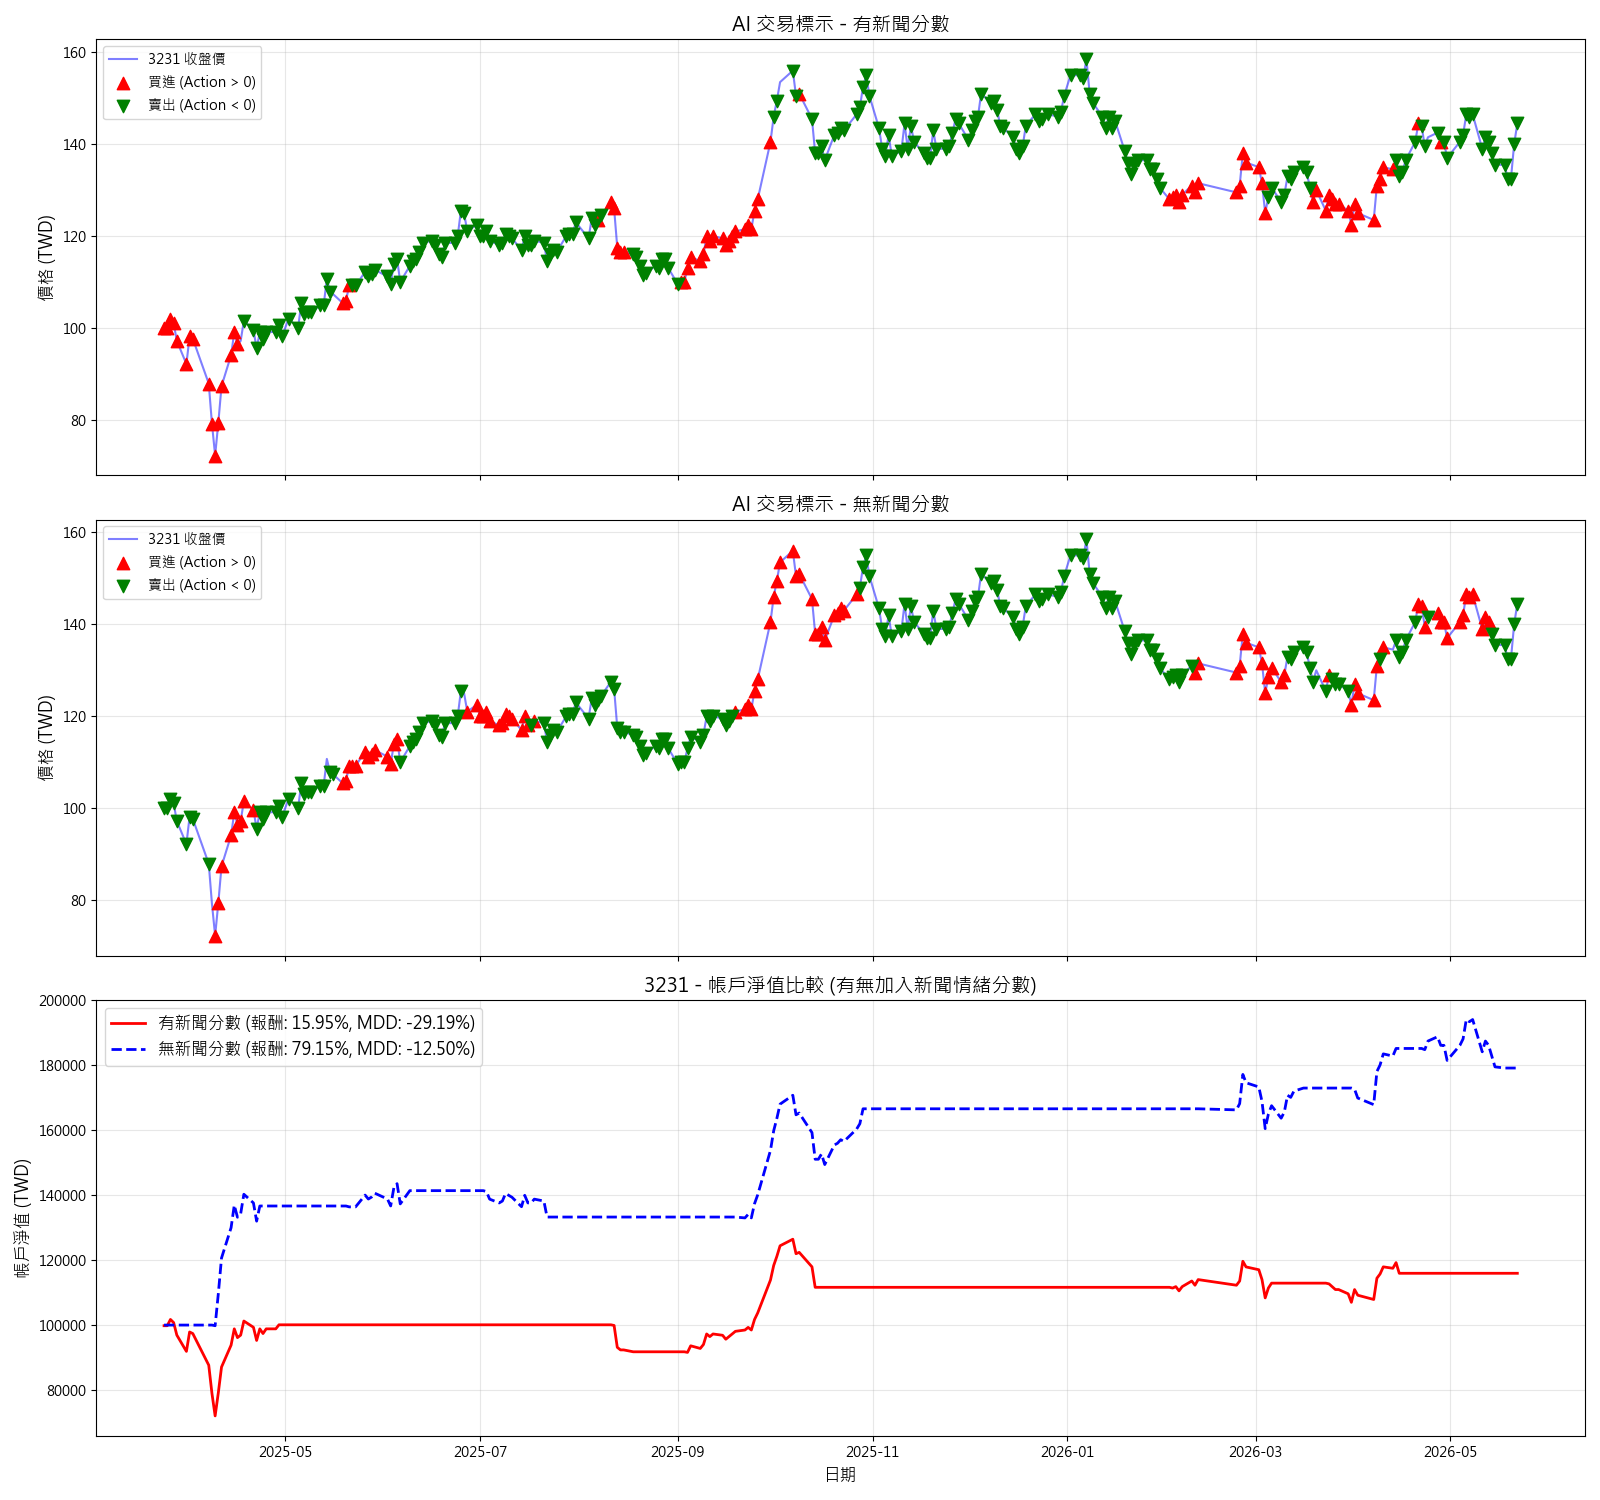
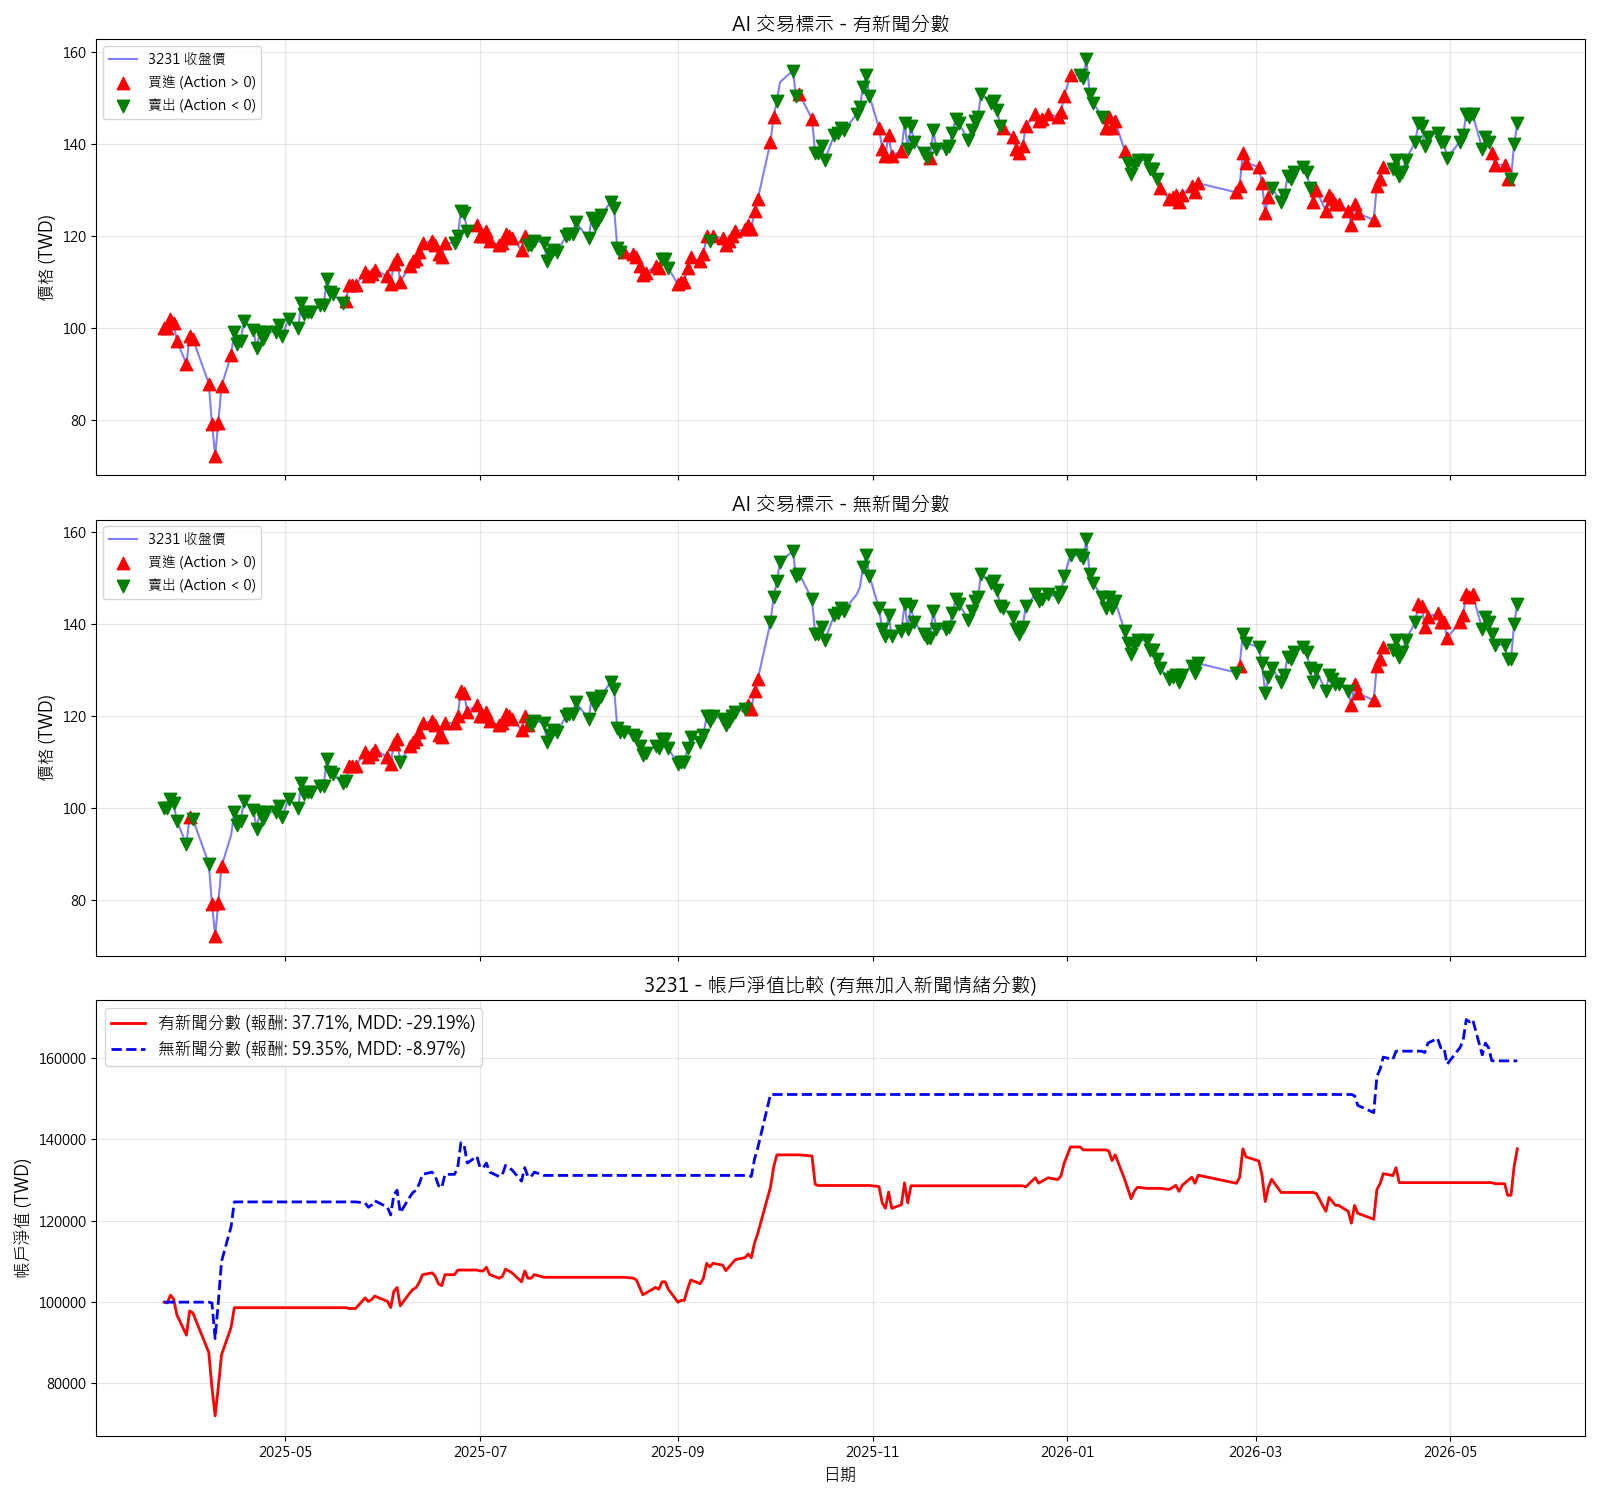
docs: update README with 0050 leading indicator concept and fix dates, chore: move tokens to .env

diff --git a/app.py b/app.py
@@ -2,7 +2,10 @@ import os
 import time
 import yaml
 import pandas as pd
+from dotenv import load_dotenv
 from FinMind.data import DataLoader
+
+load_dotenv()
 
 # ─── 📦 讀取 config.yaml 設定檔 ───
 with open("configs/config.yaml", "r", encoding="utf-8") as f:
@@ -14,11 +17,11 @@ STOCK_ID = config["settings"]["stock_id"]
 START_DATE = config["settings"]["start_date"]
 END_DATE = config["settings"]["end_date"]
 
-# 動態從 Token 清單中抓取當前用戶的 Token
-TOKEN = config["finmind_tokens"].get(CURRENT_USER)
+# 動態從 .env 中抓取當前用戶的 Token
+TOKEN = os.getenv(f"FINMIND_TOKEN_{CURRENT_USER.upper()}")
 
 if not TOKEN:
-    raise ValueError(f"❌ 在 config.yaml 的 finmind_tokens 中找不到用戶 [{CURRENT_USER}] 的 Token！")
+    raise ValueError(f"❌ 在 .env 中找不到用戶 [{CURRENT_USER}] 的 Token (FINMIND_TOKEN_{CURRENT_USER.upper()})！")
 
 print(f"🔑 成功讀取設定！當前用戶: [{CURRENT_USER}]，準備撈取標的: {STOCK_ID}")
 

diff --git a/fetch_and_score_macro.py b/fetch_and_score_macro.py
@@ -4,8 +4,11 @@ import os
 import requests
 import json
 import pandas as pd
+from dotenv import load_dotenv
 from datetime import datetime, timedelta
 from FinMind.data import DataLoader
+
+load_dotenv()
 from tqdm import tqdm
 
 # 初始化 tqdm 以便與 pandas 搭配使用
@@ -66,10 +69,10 @@ def main():
     START_DATE = config.get('settings', {}).get('start_date', '2020-01-01')
     END_DATE = config.get('settings', {}).get('end_date', '2026-05-26')
     
-    token = config.get('finmind_tokens', {}).get(CURRENT_USER, "")
+    token = os.getenv(f"FINMIND_TOKEN_{CURRENT_USER.upper()}")
     
     if not token:
-        print(f"找不到使用者 {CURRENT_USER} 的 Token，請確認 configs/config.yaml 設定。")
+        print(f"找不到使用者 {CURRENT_USER} 的 Token，請確認 .env 設定 (FINMIND_TOKEN_{CURRENT_USER.upper()})。")
         return
         
     print(f"初始化 FinMind DataLoader (User: {CURRENT_USER}, Stock: {STOCK_ID})")

diff --git a/README.md b/README.md
@@ -24,9 +24,12 @@
 ---
 
 ## 📌 專案簡介 (Project Overview)
-面對總經環境劇變與市場的高波動性（如 2026 年 3 月的極端市場壓力與 VIX 滯留警戒區間），傳統的靜態資產配置（如 60/40 股債配置）與落後的計量指標已無法有效應對非線性的 **Regime Shift（市場結構轉變）**，往往導致投資組合面臨毀滅性的最大回撤（Max Drawdown）。
+面對總經環境劇變與市場的高波動性，傳統的靜態資產配置與落後的技術指標已無法有效應對非線性的 **Regime Shift（市場結構轉變）**。
 
-本專案捨棄傳統計量經濟學，提出一個具備自我進化能力的 **端到端深度強化學習（End-to-End DRL）** 交易代理人。結合 LSTM 的時序萃取能力與 PPO 的連續控制優勢，打造能在股災發生前進行前瞻性風險降權的動態資產配置系統。
+本專案提出一個具備自我進化能力的 **端到端深度強化學習（End-to-End DRL）** 交易代理人。我們特別引入了 **「大盤 (0050) 領先指標」** 的概念：
+1. **大盤新聞情緒分數 (Macro Sentiment Score)**：透過 LLM 爬取並評分 0050（台灣50）的總經與大盤相關新聞，作為市場整體的熱度指標。
+2. **成分股預測與輪動**：在預測其他個股（如 2330, 2382, 3231 等成分股）時，模型會同時參考 0050 的相對強弱 (Relative Strength) 以及 0050 的大盤情緒分數。
+藉由這種「以大盤判斷整體水位，以個股決定買賣點」的機制，讓 Agent 能夠精準捕捉成分股的走向，在股災發生前提早降權避險，並在主升段來臨時緊緊抱住波段。
 
 ## 🧠 核心技術架構 (Proposed Architecture)
 本系統採用 **LSTM + PPO 雙引擎架構**：
@@ -50,8 +53,8 @@ $$R_t = \text{Sharpe}_t - \alpha \times \text{Drawdown Penalty}_t$$
 
 ### 數據區間 (Data Horizon)
 採用滾動式驗證（Walk-Forward Validation）避免未來數據洩漏：
-* **訓練集 (Training Set) 70%**：2015 - 2024（涵蓋多頭與震盪循環）
-* **樣本外測試集 (OOS Test Set) 30%**：2025 - 2026（重點壓力測試：2026/03/04 台股暴跌極端區間）
+* **訓練集 (Training Set)**：2021-01-01 至 2024-12-31（涵蓋疫情後的多頭與震盪循環）
+* **樣本外測試集 (OOS Test Set)**：2025-01-01 至 2026-05-26（針對近期市場進行壓力測試）
 
 ### 基準模型對照 (Baseline Models)
 本專案將與以下基準模型進行嚴格的績效對比（Ablation Study）：
